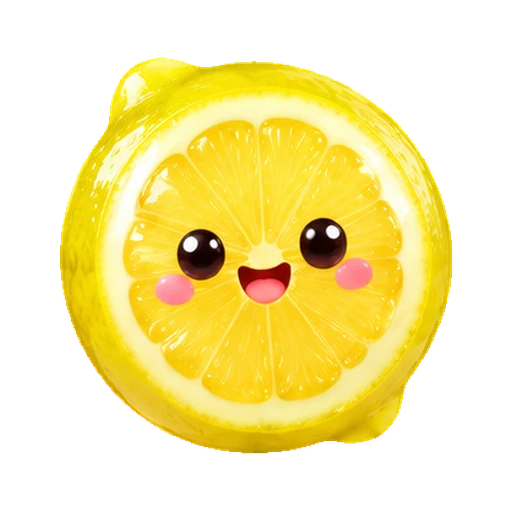
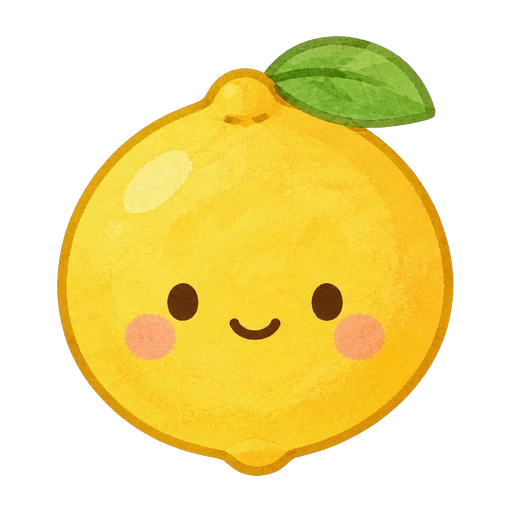
style(watermelon): 水果素材换成水彩绘本风并重算碰撞核心
用 gpt-image-2.6-sunburst 重绘九只水果与封面：圆胖纸感、闭口微笑，
去掉写实玻璃高光与开口笑；FRUIT_CORES 按新贴图逐只实测更新。

diff --git a/games/watermelon/fruits.ts b/games/watermelon/fruits.ts
@@ -1,15 +1,15 @@
 import { LEVELS } from './engine.ts';
 
 export const FRUIT_CORES = [
-  { cx: 256, cy: 287.85, rx: 194.76, ry: 191.08 },
-  { cx: 258.45, cy: 351.54, rx: 173.93, ry: 137.19 },
-  { cx: 247.43, cy: 314.79, rx: 194.76, ry: 173.93 },
-  { cx: 256, cy: 256, rx: 194.76, ry: 197.21 },
-  { cx: 253.55, cy: 259.67, rx: 199.66, ry: 198.43 },
-  { cx: 247.43, cy: 281.72, rx: 200.88, ry: 177.61 },
-  { cx: 259.67, cy: 262.12, rx: 205.78, ry: 177.61 },
-  { cx: 256, cy: 259.67, rx: 199.66, ry: 186.18 },
-  { cx: 243.75, cy: 253.55, rx: 208.23, ry: 194.76 },
+  { cx: 255.5, cy: 287, rx: 193.5, ry: 194.84 },
+  { cx: 249, cy: 308, rx: 173, ry: 175.8 },
+  { cx: 256, cy: 278, rx: 208, ry: 207.17 },
+  { cx: 255.5, cy: 277, rx: 198.5, ry: 187.45 },
+  { cx: 256, cy: 283, rx: 198, ry: 190.92 },
+  { cx: 256, cy: 276, rx: 208, ry: 208.56 },
+  { cx: 255.5, cy: 273, rx: 217.5, ry: 215.4 },
+  { cx: 255.5, cy: 276, rx: 199.5, ry: 208.93 },
+  { cx: 255.5, cy: 282, rx: 195.5, ry: 200.66 },
 ] as const;
 export const FRUITS = LEVELS.map((fruit, level) => ({ ...fruit, level, image: `/games/watermelon/assets/fruits/${fruit.id}.webp` }));
 export function fruitName(level: number): string { return LEVELS[level]?.name ?? '—'; }

diff --git a/games/watermelon/index.html b/games/watermelon/index.html
@@ -97,7 +97,7 @@
       </section>
       <aside class="sidebar" aria-label="果园与战绩">
         <figure class="orchard-art">
-          <img src="assets/cover.webp" alt="玻璃盘中的软体西瓜、桃子和橘子" width="1440" height="960" fetchpriority="high">
+          <img src="assets/cover.webp" alt="阳光下草地上的九只水果小伙伴，从葡萄到大西瓜" width="1440" height="960" fetchpriority="high">
           <figcaption class="orchard-caption">
             <span>软软果园 · 9 阶软体合成</span>
             <b>软乎乎，一碰就升级</b>
